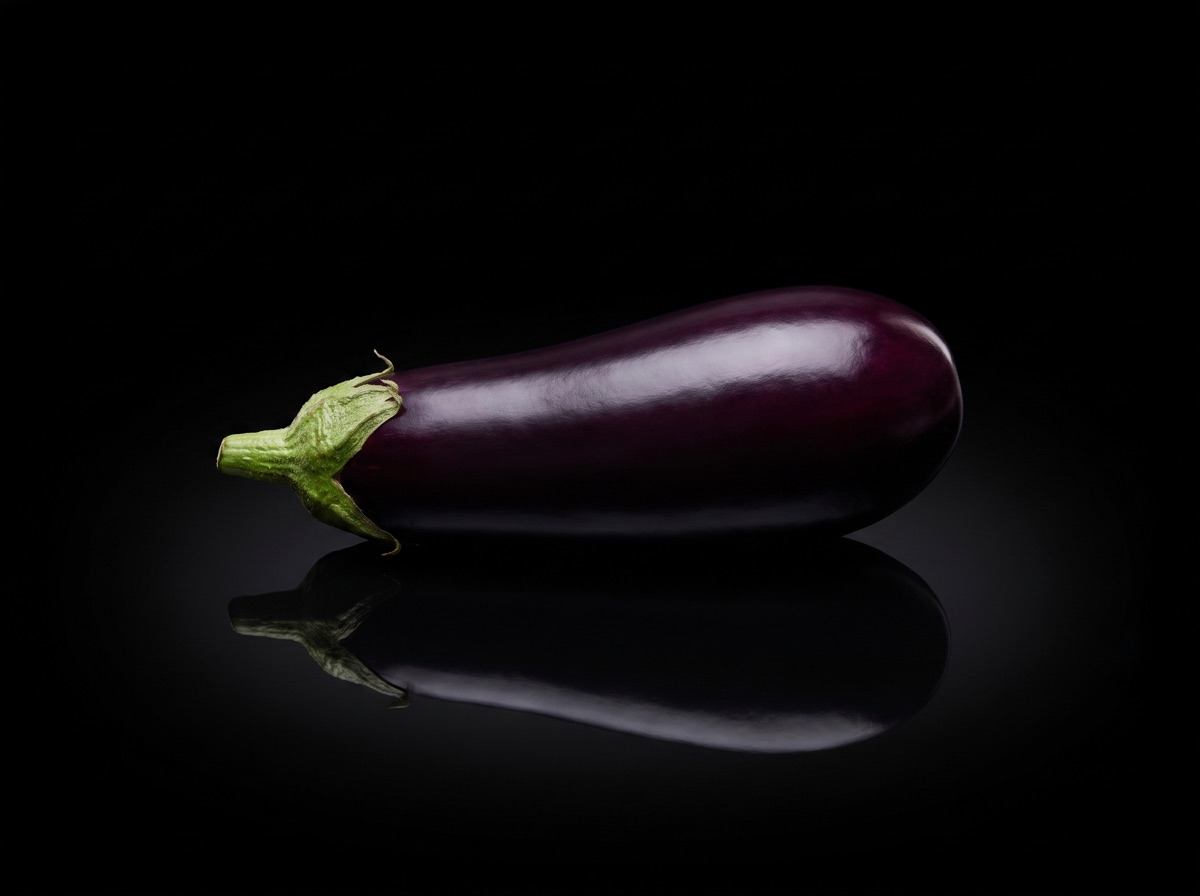
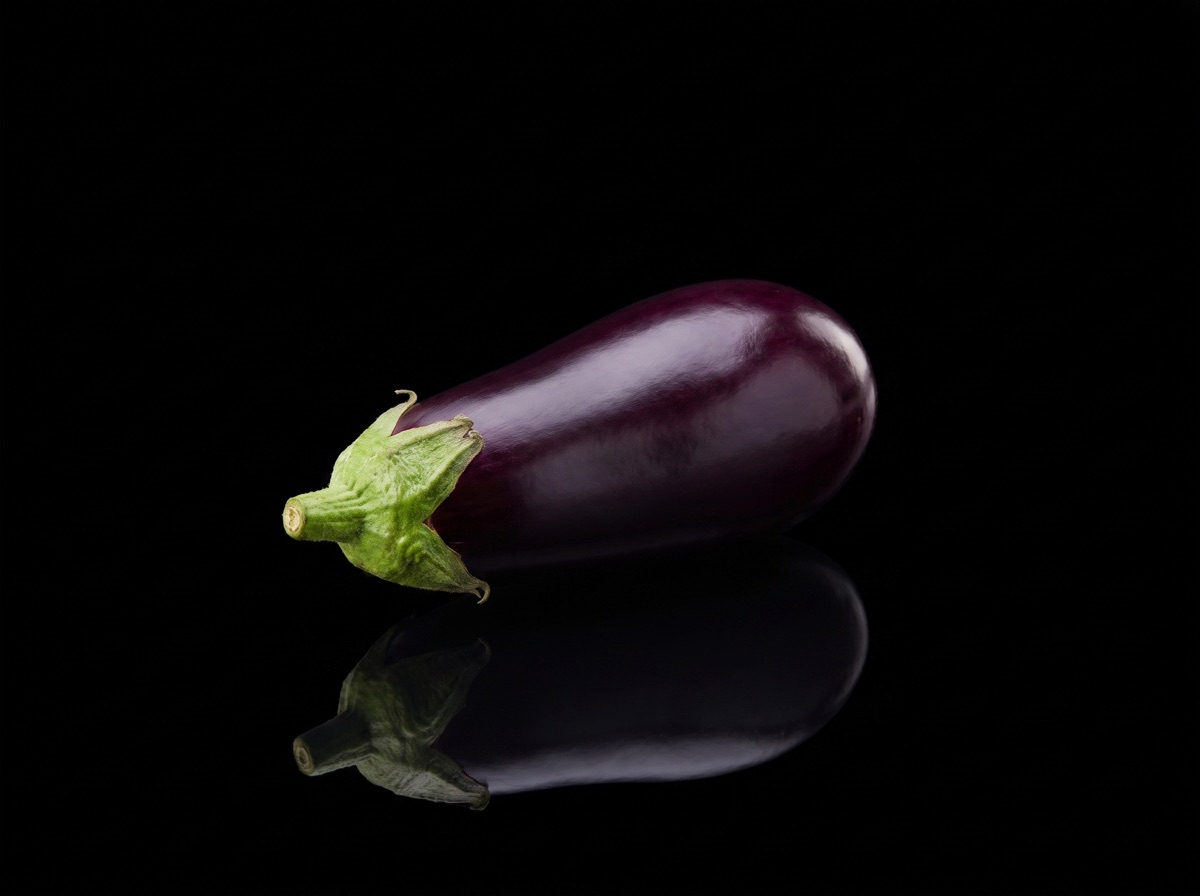
Warenkorb DB IV: 4 Bild-Tausche (Bilder in Karten) + Aubergine neu
Bild-Tausche (Namen+Gramm bleiben, nur img):
- Tomate <-> Rindersteak
- Avocado <-> Thymian (letzte Karte)
- Paprika <-> Butter
- Zitrone <-> Knoblauch
Aubergine neu generiert: zentriert, reiner schwarzer Hintergrund (kein Halo)

diff --git a/kurs.js b/kurs.js
@@ -2726,19 +2726,19 @@
       einheit:'Portionsgröße (g)', einheit_typ:'menge_g',
       /* 30 Tasty-Studios-Zutatenbilder (schwarzes Glas, Low-Key, img/zutaten, GitHub Pages) — Portionsgrößen = Beispielwerte */
       objekt_varianten:[
-        { name:'Tomate',        wert:120, img:'https://tastyrob123.github.io/kurs/img/zutaten/tomate.jpg' },
-        { name:'Avocado',       wert:145, img:'https://tastyrob123.github.io/kurs/img/zutaten/avocado.jpg' },
-        { name:'Paprika',       wert:150, img:'https://tastyrob123.github.io/kurs/img/zutaten/paprika-rot.jpg' },
-        { name:'Zitrone',       wert:100, img:'https://tastyrob123.github.io/kurs/img/zutaten/zitrone.jpg' },
+        { name:'Tomate',        wert:120, img:'https://tastyrob123.github.io/kurs/img/zutaten/rindersteak.jpg' },
+        { name:'Avocado',       wert:145, img:'https://tastyrob123.github.io/kurs/img/zutaten/thymian.jpg' },
+        { name:'Paprika',       wert:150, img:'https://tastyrob123.github.io/kurs/img/zutaten/butter.jpg' },
+        { name:'Zitrone',       wert:100, img:'https://tastyrob123.github.io/kurs/img/zutaten/knoblauch.jpg' },
         { name:'Lauchzwiebel',  wert:20,  img:'https://tastyrob123.github.io/kurs/img/zutaten/lauchzwiebel.jpg' },
         { name:'Champignons',   wert:90,  img:'https://tastyrob123.github.io/kurs/img/zutaten/champignons.jpg' },
-        { name:'Rindersteak',   wert:220, img:'https://tastyrob123.github.io/kurs/img/zutaten/rindersteak.jpg' },
+        { name:'Rindersteak',   wert:220, img:'https://tastyrob123.github.io/kurs/img/zutaten/tomate.jpg' },
         { name:'Basilikum',     wert:30,  img:'https://tastyrob123.github.io/kurs/img/zutaten/basilikum.jpg' },
         { name:'Zwiebel',       wert:110, img:'https://tastyrob123.github.io/kurs/img/zutaten/zwiebel.jpg' },
         { name:'Lachsfilet',    wert:180, img:'https://tastyrob123.github.io/kurs/img/zutaten/lachsfilet.jpg' },
         { name:'Karotte',       wert:80,  img:'https://tastyrob123.github.io/kurs/img/zutaten/karotte.jpg' },
         { name:'Granatapfel',   wert:200, img:'https://tastyrob123.github.io/kurs/img/zutaten/granatapfel.jpg' },
-        { name:'Knoblauch',     wert:40,  img:'https://tastyrob123.github.io/kurs/img/zutaten/knoblauch.jpg' },
+        { name:'Knoblauch',     wert:40,  img:'https://tastyrob123.github.io/kurs/img/zutaten/zitrone.jpg' },
         { name:'Brokkoli',      wert:140, img:'https://tastyrob123.github.io/kurs/img/zutaten/brokkoli.jpg' },
         { name:'Blaubeeren',    wert:60,  img:'https://tastyrob123.github.io/kurs/img/zutaten/blaubeeren.jpg' },
         { name:'Chili',         wert:15,  img:'https://tastyrob123.github.io/kurs/img/zutaten/chili-rot.jpg' },
@@ -2754,8 +2754,8 @@
         { name:'Zucchini',      wert:130, img:'https://tastyrob123.github.io/kurs/img/zutaten/zucchini.jpg' },
         { name:'Walnüsse',      wert:30,  img:'https://tastyrob123.github.io/kurs/img/zutaten/walnuesse.jpg' },
         { name:'Mozzarella',    wert:125, img:'https://tastyrob123.github.io/kurs/img/zutaten/mozzarella.jpg' },
-        { name:'Butter',        wert:20,  img:'https://tastyrob123.github.io/kurs/img/zutaten/butter.jpg' },
-        { name:'Thymian',       wert:10,  img:'https://tastyrob123.github.io/kurs/img/zutaten/thymian.jpg' }
+        { name:'Butter',        wert:20,  img:'https://tastyrob123.github.io/kurs/img/zutaten/paprika-rot.jpg' },
+        { name:'Thymian',       wert:10,  img:'https://tastyrob123.github.io/kurs/img/zutaten/avocado.jpg' }
       ]},
     { kachel_id:'db13_lieferanten', kachel_name:'Lieferpartner', ist_produkt_kachel:true,
       einheit:'Mindestbelieferung (€)', einheit_typ:'preis',